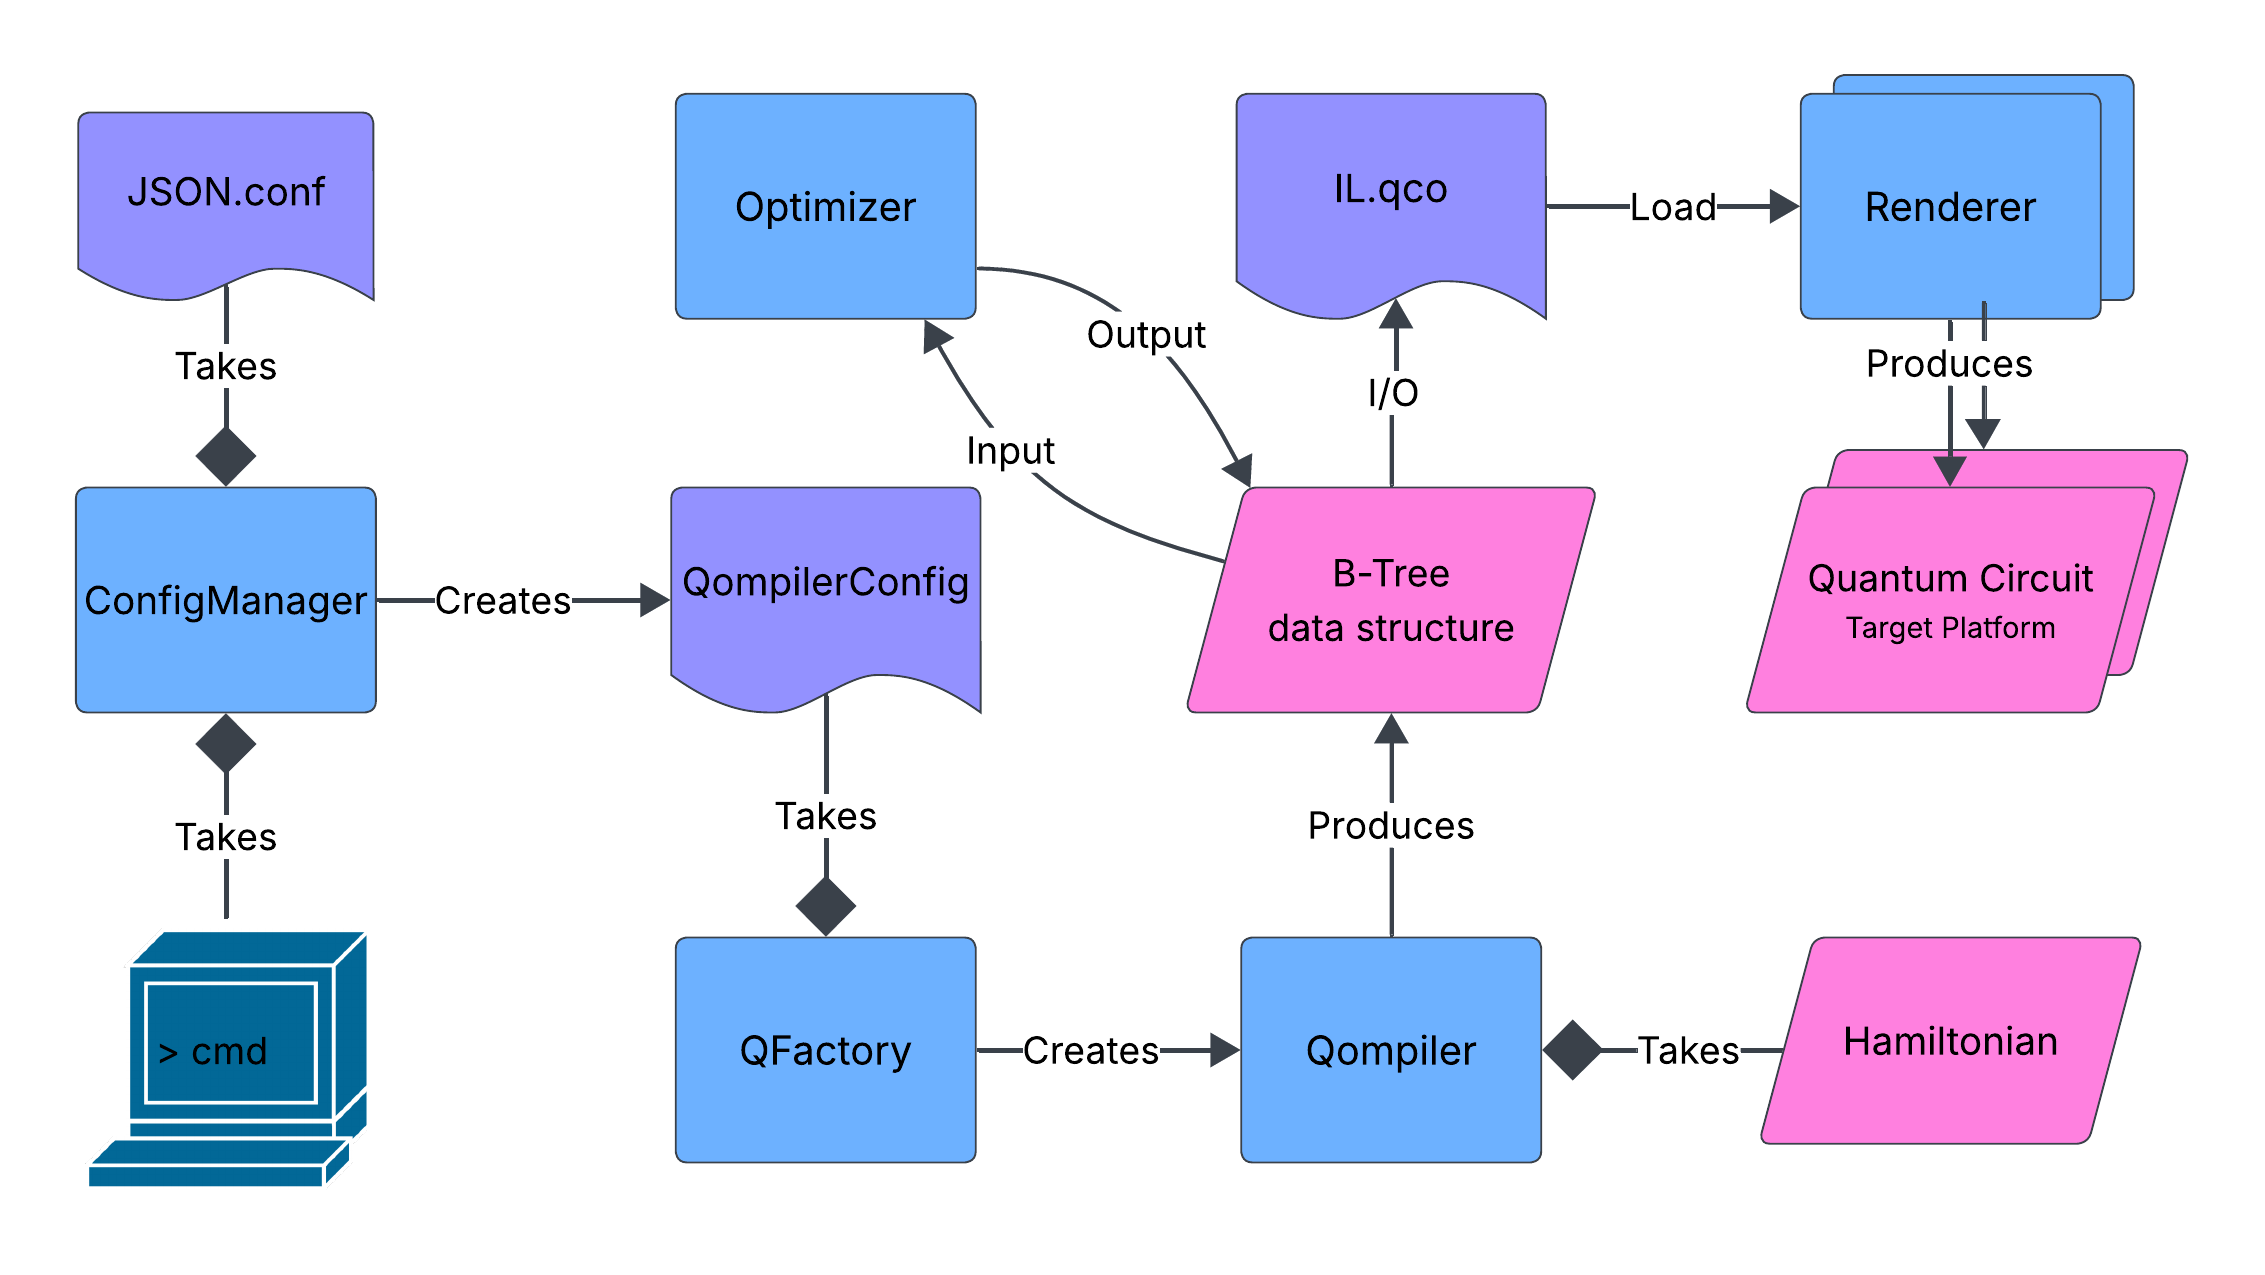
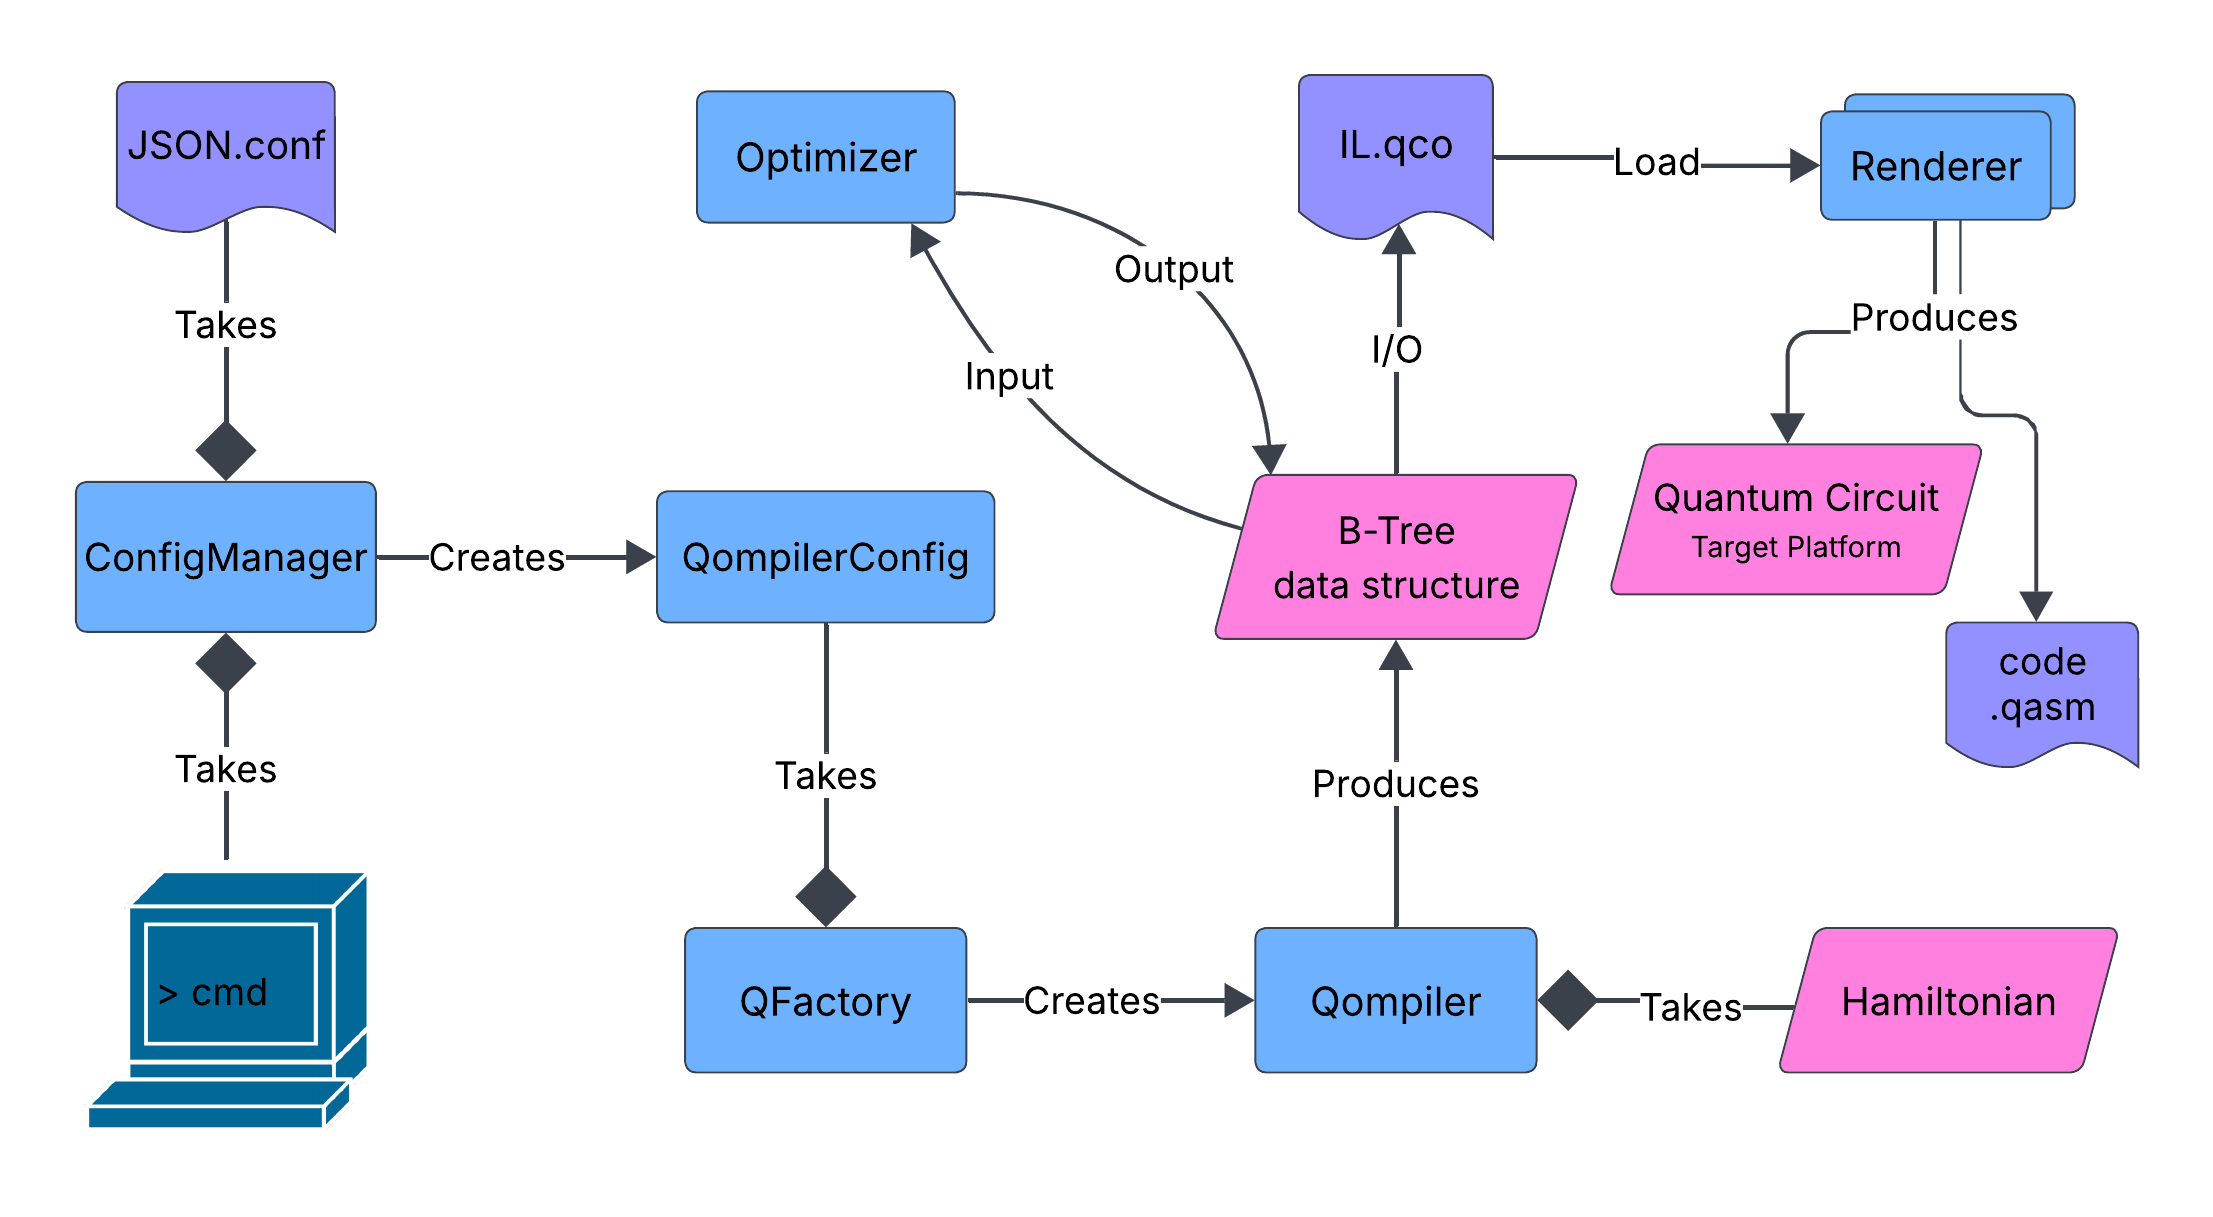
Editing the figures for design and implementation

diff --git a/quantum-compiler/article/qompiler.tex b/quantum-compiler/article/qompiler.tex
@@ -70,8 +70,7 @@ T\kern-.1667em\lower.7ex\hbox{E}\kern-.125emX}}
 
 
     \section{Method}\label{sec:method}
-    The proposed compiler, \texttt{qompiler}, decomposes user-defined Hamiltonians into executable quantum circuits
-    through a multi-stage decomposition framework.
+    The proposed compiler, \texttt{qompiler}, decomposes user-defined Hamiltonians into executable quantum circuits through a multi-stage decomposition framework.
     As a recap, given an input Hamiltonian $\hat{H}$, the quantum dynamics are fully prescribed by the time-dependent evolution operator
     \begin{equation}
         \label{eq:hamiltonian}
@@ -92,20 +91,25 @@ T\kern-.1667em\lower.7ex\hbox{E}\kern-.125emX}}
     where $\hat{A}_{0}$ is the initial operator for an arbitrary observable.
     Whereas, the state kets remain constants.
 
-    For computational purposes, we express the evolution operator as a unitary matrix \( U \) on a suitably chosen basis, and this will be our starting point for this paper.
+    For computational purposes, we express the evolution operator as a unitary matrix \( U \) on a suitably chosen basis,
+    and this will be our starting point for this paper.
     We divide the overall workflow into two stages: compilation and interpretation.
-    During compilation, \texttt{Qompiler} takes \( U \) as input and decomposes it into gate-level circuits expressed using an intermediate language (IL)
+    During compilation, \texttt{Qompiler} takes \( U \) as input and decomposes it into gate-level circuits expressed
+    using an intermediate language (IL)
     designed by us.
 
     The compilation process comprises several key steps, including two-level decomposition (2L), swap gate decomposition (CX),
-    control gate decomposition (CTRL), Euler rotation decomposition (EA), and the Solovay-Kitaev approximation (SK)~\cite{nielsen2010q,dawson2005sk}.
+    control gate decomposition (CTRL), Euler rotation decomposition (EA), and the Solovay-Kitaev approximation
+    (SK)~\cite{nielsen2010q,dawson2005sk}.
     All the decomposition processes are configurable, offering granularity control.
 
     Next are the optimization passes.
-    These are the built-in processes that reduce and consolidate the redundant gates, overly fragmented circuits, and other non-optimal parts of the code.
+    These are the built-in processes that reduce and consolidate the redundant gates, overly fragmented circuits,
+    and other non-optimal parts of the code.
     Think of the decomposition processes as `push` whereas these processes as `pull`.
     Through the optimization processes, we `pull back` some of the decomposition actions.
-    By the actions in both the `push` and pull processes, we hope to find the optimal compilation result to suit the native constraints of targeted quantum hardware.
+    By the actions in both the `push` and pull processes, we hope to find the optimal compilation result
+    to suit the native constraints of targeted quantum hardware.
 
     The final compiled code (quantum circuit) is represented in a B-Tree data structure,
     which encodes gate-level lineage via parent-child relationships among tree nodes and thus robust traceability
@@ -113,39 +117,69 @@ T\kern-.1667em\lower.7ex\hbox{E}\kern-.125emX}}
 
     A key feature of \texttt{qompiler} is its configurable compilation granularity,
     which allows users to tailor the resulting circuit to the gate sets best suited for the target hardware.
-    For instance, superconducting quantum hardware often implements Pauli gates ($X$, $Y$, $Z$) virtually, offering zero-error and zero-latency execution;
+    For instance, superconducting quantum hardware often implements Pauli gates ($X$, $Y$, $Z$) virtually,
+    offering zero-error and zero-latency execution;
     in this case, the compiler can be configured to prioritize Pauli gates.
     Conversely, trapped-ion platforms such as IonQ natively support arbitrary single-qubit rotations,
     such as $R_x(\phi)$, $R_y(\phi)$, and $R_z(\phi)$, and the compiler can be adapted accordingly to produce rotation-based circuits.
     This hardware-aware configurability enables efficient, optimized circuit generation across diverse quantum backends
     while maintaining traceability and cross-platform compatibility.
 
-    Coming next is the interpretation stage.
-    The compiler’s intermediate language (IL) is platform-independent and can be interpreted and rendered into executable circuits for specific quantum platforms.
-    The IL can also be translated into other quantum software standards such as OpenQASM for broader compatibility~\cite{openqasm2,openqasm3}.
-    This stage is designed to be open and highly adaptable to new platforms.
-    We have demonstrated the interpretation with some existing quantum computing platforms such as Qiskit and Cirq.
-    Support for other platforms may be added easily with minimal required programming.
+    Finally, the interpretation stage.
+    The compiler’s intermediate language (IL) is platform-independent and can be interpreted and rendered
+    into executable circuits for specific quantum platforms.
+    The IL can also be translated into other quantum software standards such as OpenQASM for broader
+    compatibility~\cite{openqasm2,openqasm3}.
+    This stage is designed to be highly adaptable and open to new platforms.
+    We have demonstrated the interpretation with quantum computing platforms such as Qiskit and Cirq.
+    Support for other platforms may be added easily with minimal programming.
 
 
-    \section{Architecture}\label{sec:architecture}
-    In Figure~\ref{fig:architecture}, we present the diagram of \texttt{Qompiler} architecture.
+    \section{Implementation}\label{sec:impl}
+    In Figure~\ref{fig:impl}, we present the design of the compilation framework of \texttt{Qompiler}.
+    The main flow is ``Compiler configuration → Operator decomposition → Optimization → Circuit rendering''.
+
     \begin{figure}[htbp]
         \centering
         \includegraphics[width=.8\linewidth]{architecture}
-        \caption{The architectural diagram of `Qompiler', the quantum circuit compiler.
-        The main flow is ``compiler configuration → Hamiltonian decomposition → Circuit optimization → Quantum circuit rendering''.}
-        \label{fig:architecture}
+        \caption{The design diagram of `\texttt{Qompiler}'.
+        Rectangles (blue) represent major class constructs.
+        Rectangles with a jagged bottom (purple) represent file input/output (I/O).
+        Parallelograms (pink) represent data.
+        The computer icon represents user inputs.
+        }
+        \label{fig:impl}
     \end{figure}
 
+    The major compilation workflow in details in~\ref{fig:workflow}.
+    The entry point is `Unitary`.
+    If the configuration prescribed a granularity of \texttt{MULTI\_TARGET}, the decomposition will end with multi-target operators.
+    Otherwise, the unitary operator will be decomposed, in turn, into 2-level unitary, singlet qubit, and control-pruned gates.
+    Then a granularity probe of type \texttt{PRINCIPAL} is performed to determine if the target granularity has been reached.
+    If yes, output Principal rotational operators.
+    Otherwise, continue to break down the operators into either Clifford+T gate sets or customer-defined Universal gate sets.
     \begin{figure}[htbp]
         \centering
         \includegraphics[width=.8\linewidth]{workflow}
-        \caption{The compilation workflow.}
-        \label{fig:qompiler}
+        \caption{The major compilation workflow in details.
+        Each parallelogram (pink) represents a stage of the compiled data.
+        Each rhombus (green) represents a granularity test.
+        There are probes for three major granularity types---\texttt{MULTI\_TARGET}, \texttt{PRINCIPAL}, and \texttt{CLIFFORD\_T}.
+        }
+        \label{fig:workflow}
     \end{figure}
 
-    The resulting IL is basically a B-Tree data structure and is written to \textit{.qco} files.
+    The resulting IL is a B-Tree data structure and is written to \textit{.qco} files.
+    In the B-Tree data structure, parent nodes generally represent the coarser grained operators
+    and child nodes represent the decomposed operators,
+    the products of which are just the parent nodes, e.g.,
+    \begin{equation}
+        \label{eq:parent-child-relation}
+        \hat{P} = \prod_{i=1}^{n}{\hat{C}_{i}}.
+    \end{equation}
+    Generally speaking, the B-Tree data structure is layered and contains the following layers---2level unitary,
+    single-qubit operators, control-pruned operators, and universal gates (including Clifford+T gates).
+
     \begin{figure}[htbp]
         \centering
         \includegraphics[width=0.6\linewidth]{btree}
@@ -155,6 +189,8 @@ T\kern-.1667em\lower.7ex\hbox{E}\kern-.125emX}}
 
 
     \section{Traceability and Verifiability}\label{sec:traceability-and-verifiability}
+
+    One of the key features of the current implementation of \texttt{qompiler} is its built-in feature---traceability and verifiability.
     When using quantum computing on real world applications, such as quantum chemistry, the size of quantum circuit can be easily huge.
     A quantum program for simulating a simple molecule like LiH in STO-3G solution would require $1000$ quantum gates~\cite{Hong_2022}.
     Simulation programs for moderately large molecules could consist of millions of quantum gates~\cite{poulin2014,google_science_2020}.
@@ -168,7 +204,8 @@ T\kern-.1667em\lower.7ex\hbox{E}\kern-.125emX}}
 
     \section{Results}\label{sec:results}
     Initial benchmarks demonstrate that the compiler generates correct and consistent quantum circuits across multiple backends.
-    These results highlight the compiler’s potential to accelerate quantum software development, circuit optimization, and experimentation across diverse quantum computing platforms.
+    These results highlight the compiler’s potential to accelerate quantum software development,
+    circuit optimization, and experimentation across diverse quantum computing platforms.
 
     We compared \texttt{qompiler} with many existing quantum compilers/transpilers/synthesizers in terms of the following aspects:
     \begin{itemize}
@@ -225,7 +262,8 @@ T\kern-.1667em\lower.7ex\hbox{E}\kern-.125emX}}
     Initial benchmarks confirm the correctness and consistency of the output across supported platforms, including Qiskit and Cirq.
     Future work includes incorporating parallelization to improve compilation efficiency for higher-dimensional Hamiltonians.
     We also plan to extend compatibility to additional frameworks, such as AWS Braket and PennyLane,
-    with the broader goal of streamlining quantum algorithm development across the heterogeneous quantum computing landscape~\cite{braket-zenodo,pennylane}.
+    with the broader goal of streamlining quantum algorithm development across the heterogeneous quantum computing
+    landscape~\cite{braket-zenodo,pennylane}.
     In addition, we aim to integrate quantum error correction capabilities to enhance the reliability of synthesized circuits.
     We invite collaboration and feedback from the quantum software community.
 
